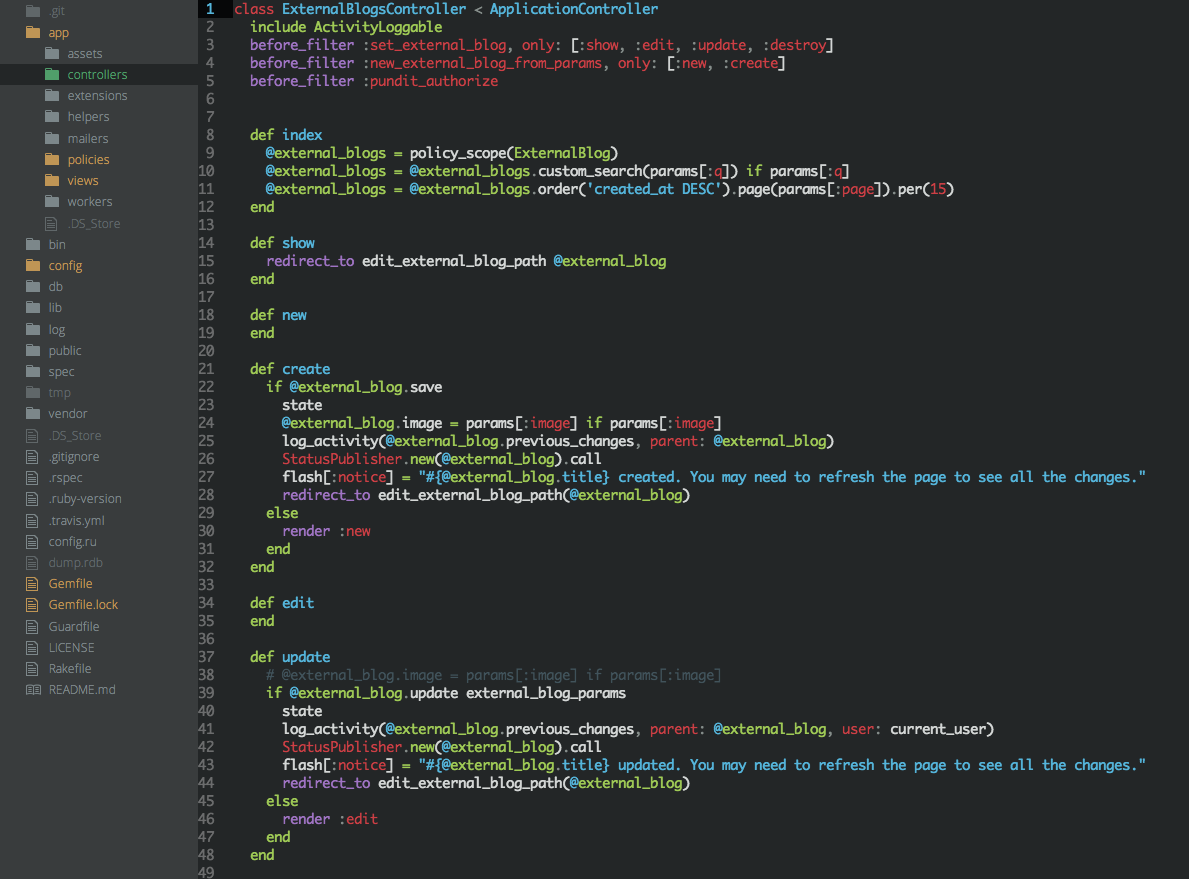
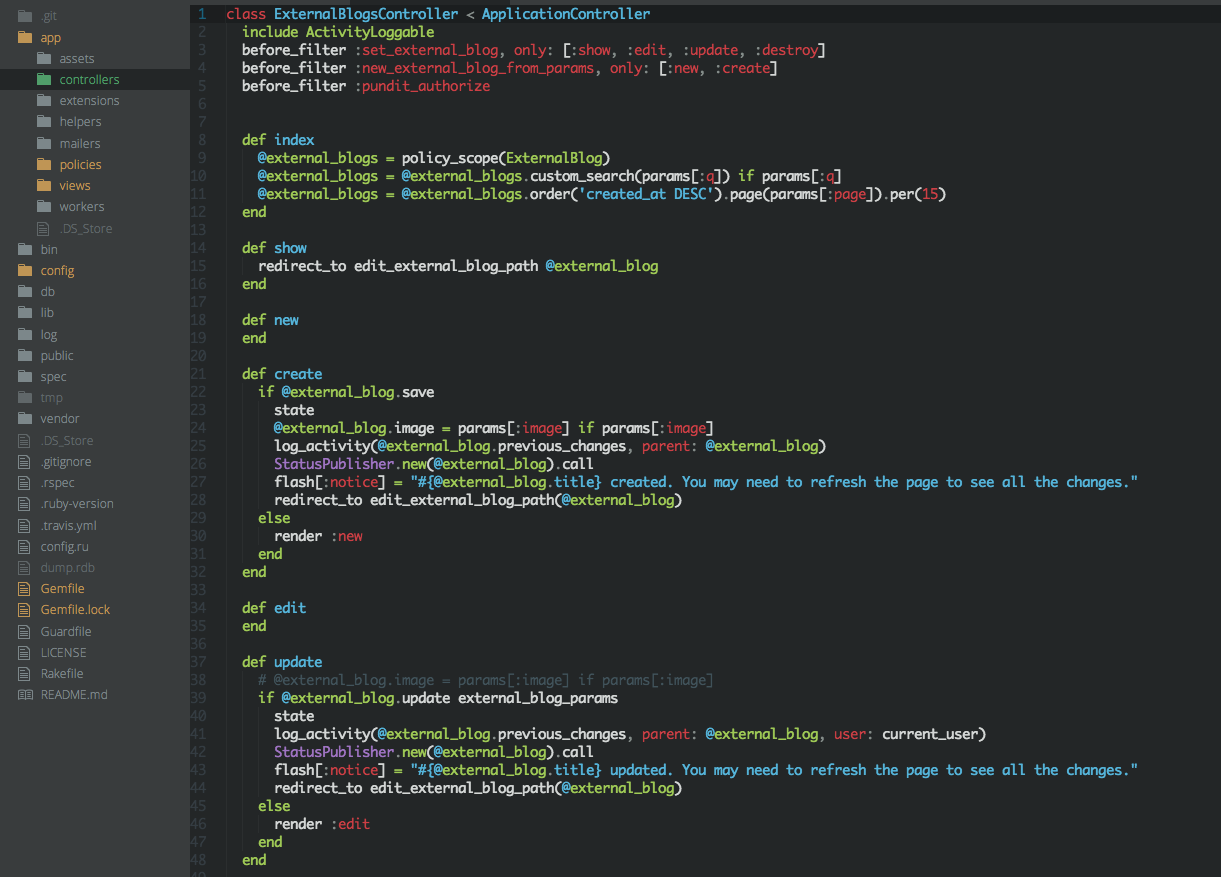
Update gutter highlighting

Changed region(s): [[0.1556, 0.0, 0.9647, 1.0], [0.0, 0.0, 0.0934, 0.8005]]

diff --git a/stylesheets/colors.less b/stylesheets/colors.less
@@ -8,9 +8,9 @@
 
 // GUTTER
 @gutter-text: rgb(64,75,83);
-@gutter-text-highlight: @entity;
-@gutter-background: rgb(100,149,237);
-@gutter-background-highlight: rgb(6,7,8);
+@gutter-text-highlight: darken(@entity, 30%);
+@gutter-background: rgb(0,0,0,1);
+@gutter-background-highlight: rgba(0,0,0,0.2);
 
 // CODE VIEW
 // @code-background: rgb(40, 43, 44); // editor background
@@ -47,8 +47,8 @@
 @guides: rgba(245,250,255,0.04);
 @cursor-color: @code-font-color;
 @cursor-width: 2px;
-@selected: rgba(240,255,255,0.3); // selected background color
-@selected-border: rgba(240,255,255,0.3);
+@selected: lighten(#222222, 8%); // selected background color
+@selected-border: rgba(224,224,224,0.0);
 @selected-line: rgba(0,0,0,0.2);
 
 @tag: @class;

diff --git a/CHANGELOG.md b/CHANGELOG.md
@@ -1,3 +1,6 @@
+## 0.3.0
+* Updated Gutter highlighting
+
 ## 0.2.0
 * Updated Gutter Color
 
